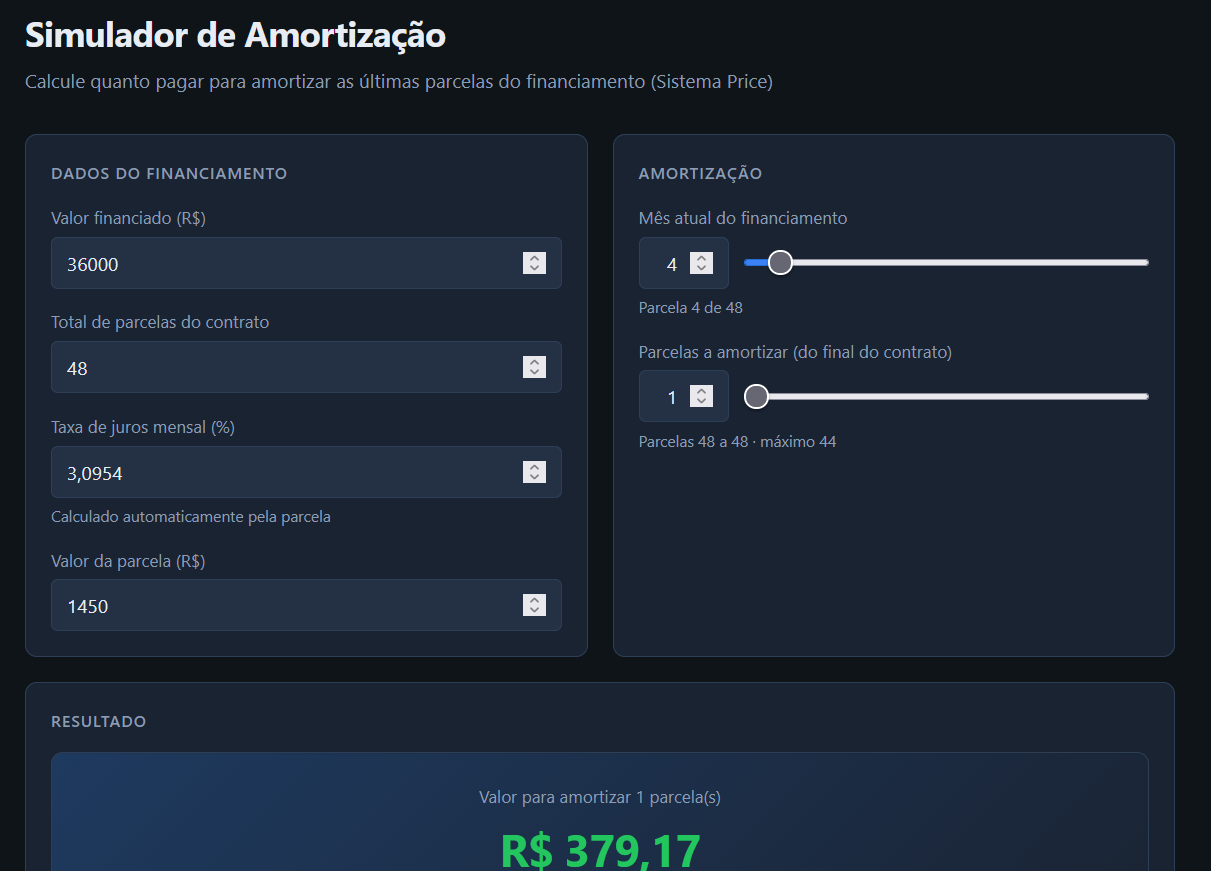
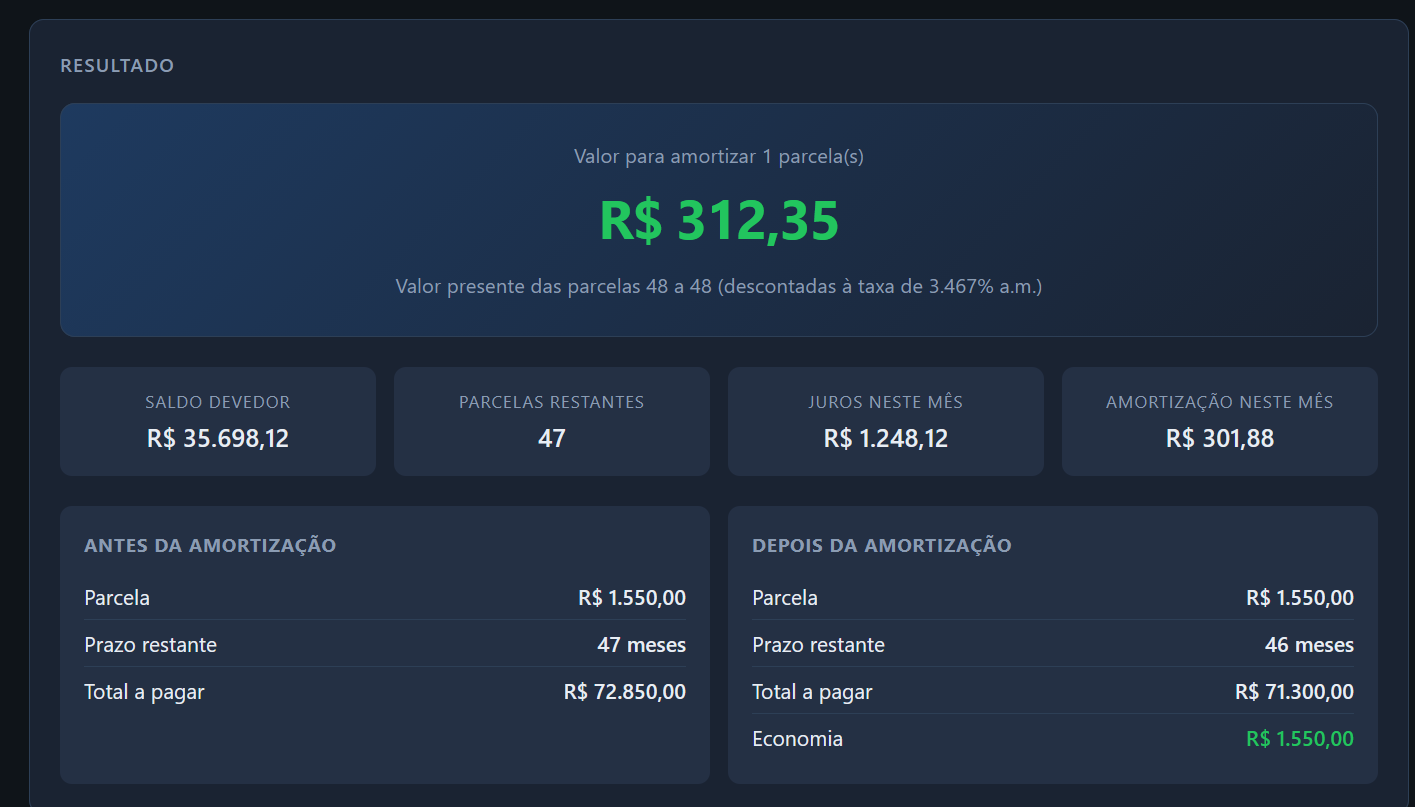
Enhance SEO and metadata in index.html, add robots.txt and sitemap.xml, and update document title and descriptions in App.tsx

diff --git a/src/index.css b/src/index.css
@@ -3,7 +3,7 @@
 @tailwind components;
 @tailwind utilities;
 
-:root{font-family:'Manrope',sans-serif;color:#f1f1ed;background:#111211;font-synthesis:none;text-rendering:optimizeLegibility;font-optical-sizing:auto;font-weight:400;scroll-behavior:smooth}*{box-sizing:border-box}body{margin:0;min-width:320px}a{color:inherit;text-decoration:none}.shell{width:min(1160px,calc(100% - 72px));margin-inline:auto}.accent{color:#cbfa55}.nav{height:88px;display:flex;align-items:center;justify-content:space-between;border-bottom:1px solid #ffffff17}.brand{font-size:23px;font-weight:800;letter-spacing:-2px}.nav-links{display:flex;align-items:center;gap:38px;font-size:12px;color:#aaa}.nav-links a:hover,.socials a:hover{color:#cbfa55}.nav-contact{border:1px solid #ffffff38;border-radius:99px;padding:12px 18px;color:#f1f1ed!important}.nav-contact span{color:#cbfa55;margin-left:8px}.hero{position:relative;min-height:620px;display:grid;grid-template-columns:1.25fr .75fr;align-items:center;gap:30px;padding-top:50px;padding-bottom:90px}.hero-copy{position:relative;z-index:2}.eyebrow{font-family:'DM Mono',monospace;font-size:10px;letter-spacing:1.15px;color:#92958f}.status-dot{display:inline-block;width:7px;height:7px;background:#cbfa55;border-radius:50%;margin-right:9px;box-shadow:0 0 12px #cbfa5580}.hero h1{font-size:clamp(50px,6vw,82px);line-height:1.03;letter-spacing:-6px;font-weight:600;margin:29px 0 28px}.hero h1 span{color:#8e9189}.hero-bottom{display:flex;align-items:center;gap:38px}.hero-bottom p{max-width:365px;color:#a5a69f;line-height:1.8;font-size:14px}.round-link{width:48px;height:48px;border:1px solid #555;border-radius:50%;display:grid;place-items:center;font-size:22px;transition:.2s}.round-link:hover{background:#cbfa55;color:#111;border-color:#cbfa55}.hero-visual{height:400px;position:relative;display:grid;place-items:center;overflow:hidden}.visual-grid{position:absolute;inset:0;background-image:linear-gradient(#ffffff0c 1px,transparent 1px),linear-gradient(90deg,#ffffff0c 1px,transparent 1px);background-size:42px 42px;mask-image:radial-gradient(ellipse,#000 10%,transparent 73%)}.hero-visual img{width:258px;height:316px;object-fit:cover;object-position:center 30%;position:relative;z-index:1;filter:grayscale(1);border-radius:130px 130px 8px 8px;border:1px solid #ffffff36}.orbit{position:absolute;border:1px solid #cbfa5540;border-radius:50%;width:330px;height:330px;transform:rotate(-28deg) scaleY(.55)}.orbit-two{width:390px;height:390px;transform:rotate(37deg) scaleY(.55);border-color:#ffffff24}.visual-label{position:absolute;z-index:2;right:2%;top:23%;font:10px/1.7 'DM Mono',monospace;letter-spacing:1px;color:#c8c9c2}.visual-index{position:absolute;right:8%;bottom:12%;font:10px 'DM Mono',monospace;color:#74776e}.hero-meta{position:absolute;bottom:28px;left:0;right:0;display:flex;justify-content:space-between;border-top:1px solid #ffffff20;padding-top:16px;font:9px 'DM Mono',monospace;letter-spacing:1px;color:#74776e}.work-section{background:#e9eae4;color:#171816;padding:110px 0 120px}.section-heading{display:flex;justify-content:space-between;align-items:end;margin-bottom:52px}.section-heading h2{font-size:clamp(38px,5vw,58px);letter-spacing:-3px;margin:16px 0 0}.section-heading>p{color:#777970;font-size:12px;line-height:1.8;margin:0 0 5px}.project-list{border-top:1px solid #c6c8bf}.project{display:grid;grid-template-columns:1fr 1fr;gap:70px;padding:32px 0;border-bottom:1px solid #c6c8bf}.project-media{height:300px;background:#d9dbd3;position:relative;overflow:hidden;display:grid;place-items:center}.project-media img{width:100%;height:100%;object-fit:cover;transition:transform .5s}.project:hover .project-media img{transform:scale(1.035)}.media-index{position:absolute;top:13px;left:14px;background:#171816;color:#cbfa55;padding:7px 9px;font:9px 'DM Mono',monospace}.project-placeholder{width:100%;height:100%;display:grid;place-items:center;background:radial-gradient(ellipse at center,#bec2b5,#dfe1d9 67%);position:relative}.project-placeholder>span{font-size:108px;font-weight:800;letter-spacing:-14px;color:#252722}.project-placeholder i{position:absolute;right:18px;bottom:12px;font:italic 11px 'DM Mono',monospace;color:#73766d}.project-content{padding:14px 0;display:flex;flex-direction:column;align-items:flex-start}.project-kicker{width:100%;display:flex;justify-content:space-between;font:9px 'DM Mono',monospace;letter-spacing:.7px;color:#81837a}.project h3{font-size:31px;letter-spacing:-1.4px;margin:28px 0 11px}.project-content>p{font-size:13px;line-height:1.8;color:#686b62;max-width:440px;margin:0}.tags{display:flex;flex-wrap:wrap;gap:7px;margin:22px 0 26px}.tags span{border:1px solid #c4c6bc;border-radius:30px;padding:7px 11px;font:9px 'DM Mono',monospace;color:#676960}.project-links{display:flex;gap:21px;margin-top:auto}.project-links a{font-size:11px;font-weight:700;border-bottom:1px solid #aeb0a7;padding-bottom:5px}.project-links a span{color:#7a9e19;margin-left:5px}.about-section{display:grid;grid-template-columns:.7fr 1.3fr;gap:80px;padding-top:120px;padding-bottom:130px}.about-label{display:flex;flex-direction:column;justify-content:space-between;min-height:250px}.about-mark{font-size:60px;letter-spacing:-7px;font-weight:800;color:#262824}.about-copy h2{font-size:clamp(28px,3.4vw,43px);line-height:1.23;letter-spacing:-2px;font-weight:500;margin:0 0 24px;max-width:660px}.about-copy>p{font-size:13px;line-height:1.9;color:#a4a69e;max-width:620px}.education{margin-top:56px;border-top:1px solid #ffffff25;padding-top:20px;display:grid;grid-template-columns:1fr 1fr;gap:20px}.education>.eyebrow{grid-column:1/-1}.education div{display:flex;flex-direction:column;gap:8px}.education strong{font-size:12px;font-weight:600}.education div span{font-size:10px;color:#888b82;line-height:1.6}.footer{background:#1b1d1a;padding:65px 0 27px}.footer-inner{display:flex;justify-content:space-between;align-items:end}.footer-cta{display:block;font-size:clamp(34px,5vw,62px);font-weight:600;letter-spacing:-3px;margin-top:13px}.footer-cta span{font-size:.65em;color:#cbfa55;margin-left:15px}.footer-right{display:flex;flex-direction:column;align-items:flex-end;gap:46px}.socials{display:flex;gap:22px}.socials a{font-size:11px;color:#aaa}.socials span{color:#cbfa55;margin-left:8px}.copyright{font:8px 'DM Mono',monospace;color:#6e7169;letter-spacing:.7px}
+:root{font-family:'Manrope',sans-serif;color:#f1f1ed;background:#111211;font-synthesis:none;text-rendering:optimizeLegibility;font-optical-sizing:auto;font-weight:400;scroll-behavior:smooth}*{box-sizing:border-box}body{margin:0;min-width:320px}a{color:inherit;text-decoration:none}.shell{width:min(1160px,calc(100% - 72px));margin-inline:auto}.accent{color:#cbfa55}.nav{height:88px;display:flex;align-items:center;justify-content:space-between;border-bottom:1px solid #ffffff17}.brand{font-size:23px;font-weight:800;letter-spacing:-2px}.nav-links{display:flex;align-items:center;gap:38px;font-size:12px;color:#aaa}.nav-links a:hover,.socials a:hover{color:#cbfa55}.nav-contact{border:1px solid #ffffff38;border-radius:99px;padding:12px 18px;color:#f1f1ed!important}.nav-contact span{color:#cbfa55;margin-left:8px}.hero{position:relative;min-height:620px;display:grid;grid-template-columns:1.25fr .75fr;align-items:center;gap:30px;padding-top:50px;padding-bottom:90px}.hero-copy{position:relative;z-index:2}.eyebrow{font-family:'DM Mono',monospace;font-size:10px;letter-spacing:1.15px;color:#92958f}.status-dot{display:inline-block;width:7px;height:7px;background:#cbfa55;border-radius:50%;margin-right:9px;box-shadow:0 0 12px #cbfa5580}.hero h1{font-size:clamp(50px,6vw,82px);line-height:1.03;letter-spacing:-6px;font-weight:600;margin:29px 0 28px}.hero h1 span{color:#8e9189}.hero-bottom{display:flex;align-items:center;gap:38px}.hero-bottom p{max-width:365px;color:#a5a69f;line-height:1.8;font-size:14px}.round-link{width:48px;height:48px;border:1px solid #555;border-radius:50%;display:grid;place-items:center;font-size:22px;transition:.2s}.round-link:hover{background:#cbfa55;color:#111;border-color:#cbfa55}.hero-visual{height:400px;position:relative;display:grid;place-items:center;overflow:hidden}.visual-grid{position:absolute;inset:0;background-image:linear-gradient(#ffffff0c 1px,transparent 1px),linear-gradient(90deg,#ffffff0c 1px,transparent 1px);background-size:42px 42px;mask-image:radial-gradient(ellipse,#000 10%,transparent 73%)}.hero-visual img{width:258px;height:316px;object-fit:cover;object-position:center 30%;position:relative;z-index:1;filter:none;border-radius:130px 130px 8px 8px;border:1px solid #ffffff36}.orbit{position:absolute;border:1px solid #cbfa5540;border-radius:50%;width:330px;height:330px;transform:rotate(-28deg) scaleY(.55)}.orbit-two{width:390px;height:390px;transform:rotate(37deg) scaleY(.55);border-color:#ffffff24}.visual-label{position:absolute;z-index:2;right:2%;top:23%;font:10px/1.7 'DM Mono',monospace;letter-spacing:1px;color:#c8c9c2}.visual-index{position:absolute;right:8%;bottom:12%;font:10px 'DM Mono',monospace;color:#74776e}.hero-meta{position:absolute;bottom:28px;left:0;right:0;display:flex;justify-content:space-between;border-top:1px solid #ffffff20;padding-top:16px;font:9px 'DM Mono',monospace;letter-spacing:1px;color:#74776e}.work-section{background:#e9eae4;color:#171816;padding:110px 0 120px}.section-heading{display:flex;justify-content:space-between;align-items:end;margin-bottom:52px}.section-heading h2{font-size:clamp(38px,5vw,58px);letter-spacing:-3px;margin:16px 0 0}.section-heading>p{color:#777970;font-size:12px;line-height:1.8;margin:0 0 5px}.project-list{border-top:1px solid #c6c8bf}.project{display:grid;grid-template-columns:1fr 1fr;gap:70px;padding:32px 0;border-bottom:1px solid #c6c8bf}.project-media{height:300px;background:#d9dbd3;position:relative;overflow:hidden;display:grid;place-items:center}.project-media img{width:100%;height:100%;object-fit:cover;transition:transform .5s}.project:hover .project-media img{transform:scale(1.035)}.media-index{position:absolute;top:13px;left:14px;background:#171816;color:#cbfa55;padding:7px 9px;font:9px 'DM Mono',monospace}.project-placeholder{width:100%;height:100%;display:grid;place-items:center;background:radial-gradient(ellipse at center,#bec2b5,#dfe1d9 67%);position:relative}.project-placeholder>span{font-size:108px;font-weight:800;letter-spacing:-14px;color:#252722}.project-placeholder i{position:absolute;right:18px;bottom:12px;font:italic 11px 'DM Mono',monospace;color:#73766d}.project-content{padding:14px 0;display:flex;flex-direction:column;align-items:flex-start}.project-kicker{width:100%;display:flex;justify-content:space-between;font:9px 'DM Mono',monospace;letter-spacing:.7px;color:#81837a}.project h3{font-size:31px;letter-spacing:-1.4px;margin:28px 0 11px}.project-content>p{font-size:13px;line-height:1.8;color:#686b62;max-width:440px;margin:0}.tags{display:flex;flex-wrap:wrap;gap:7px;margin:22px 0 26px}.tags span{border:1px solid #c4c6bc;border-radius:30px;padding:7px 11px;font:9px 'DM Mono',monospace;color:#676960}.project-links{display:flex;gap:21px;margin-top:auto}.project-links a{font-size:11px;font-weight:700;border-bottom:1px solid #aeb0a7;padding-bottom:5px}.project-links a span{color:#7a9e19;margin-left:5px}.about-section{display:grid;grid-template-columns:.7fr 1.3fr;gap:80px;padding-top:120px;padding-bottom:130px}.about-label{display:flex;flex-direction:column;justify-content:space-between;min-height:250px}.about-mark{font-size:60px;letter-spacing:-7px;font-weight:800;color:#262824}.about-copy h2{font-size:clamp(28px,3.4vw,43px);line-height:1.23;letter-spacing:-2px;font-weight:500;margin:0 0 24px;max-width:660px}.about-copy>p{font-size:13px;line-height:1.9;color:#a4a69e;max-width:620px}.education{margin-top:56px;border-top:1px solid #ffffff25;padding-top:20px;display:grid;grid-template-columns:1fr 1fr;gap:20px}.education>.eyebrow{grid-column:1/-1}.education div{display:flex;flex-direction:column;gap:8px}.education strong{font-size:12px;font-weight:600}.education div span{font-size:10px;color:#888b82;line-height:1.6}.footer{background:#1b1d1a;padding:65px 0 27px}.footer-inner{display:flex;justify-content:space-between;align-items:end}.footer-cta{display:block;font-size:clamp(34px,5vw,62px);font-weight:600;letter-spacing:-3px;margin-top:13px}.footer-cta span{font-size:.65em;color:#cbfa55;margin-left:15px}.footer-right{display:flex;flex-direction:column;align-items:flex-end;gap:46px}.socials{display:flex;gap:22px}.socials a{font-size:11px;color:#aaa}.socials span{color:#cbfa55;margin-left:8px}.copyright{font:8px 'DM Mono',monospace;color:#6e7169;letter-spacing:.7px}
 @media(max-width:800px){.shell{width:min(100% - 42px,600px)}.nav{height:70px}.nav-links{gap:18px}.nav-links>a:first-child,.nav-links>a:nth-child(2){display:none}.hero{grid-template-columns:1fr;gap:0;padding-top:75px;padding-bottom:82px}.hero h1{letter-spacing:-4px;font-size:clamp(48px,10vw,70px)}.hero-visual{height:340px;grid-row:1;margin-bottom:24px}.hero-visual img{width:218px;height:270px}.hero-bottom{justify-content:space-between}.hero-meta{font-size:8px}.work-section{padding:78px 0}.section-heading{align-items:start;gap:20px;flex-direction:column;margin-bottom:32px}.section-heading h2{letter-spacing:-2px}.project{grid-template-columns:1fr;gap:17px;padding:20px 0 27px}.project-media{height:250px}.project-content{padding:8px 0}.project h3{margin-top:18px}.project-links{margin-top:4px}.about-section{grid-template-columns:1fr;gap:25px;padding-top:80px;padding-bottom:85px}.about-label{min-height:auto;gap:30px}.about-mark{display:none}.education{margin-top:38px}.footer-inner{align-items:flex-start;gap:45px;flex-direction:column}.footer-right{align-items:flex-start;gap:25px}.footer-cta{letter-spacing:-2px}}
 @media(max-width:430px){.shell{width:calc(100% - 34px)}.nav-contact{padding:10px 12px;font-size:10px}.hero h1{font-size:45px;letter-spacing:-3.5px}.hero-bottom p{font-size:12px}.hero-visual{height:300px}.visual-label{right:0}.hero-meta span{font-size:7px}.project-media{height:210px}.project h3{font-size:26px}.education{grid-template-columns:1fr}.education>.eyebrow{grid-column:auto}.socials{gap:15px}.copyright{font-size:7px}}
 .skills-section{background:#f1f2ed;color:#171816;padding:100px 0 82px}.skills-heading{align-items:end;margin-bottom:50px}.skills-heading h2{font-size:clamp(46px,5vw,64px);line-height:1.04;letter-spacing:-3.5px;margin:20px 0 0}.skills-heading h2 em{font-family:Georgia,serif;font-weight:400}.skills-heading>p{max-width:360px;color:#6d7069;font-size:14px;line-height:1.8;margin:0 0 5px}.skill-grid{display:grid;grid-template-columns:repeat(3,1fr);border-top:1px solid #d0d3ca;border-bottom:1px solid #d0d3ca}.skill-card{padding:30px 26px 32px 0;min-height:222px}.skill-card+.skill-card{border-left:1px solid #d0d3ca;padding-left:28px}.skill-number{font:11px 'DM Mono',monospace;color:#38504a}.skill-card h3,.skills-bottom h3{font-size:18px;letter-spacing:-.5px;margin:23px 0 21px}.skill-tags{display:flex;flex-wrap:wrap;gap:10px 18px}.skill-tags span{font-size:13px;color:#656962;line-height:1.5}.skills-bottom{display:grid;grid-template-columns:2fr 1fr;gap:60px;padding-top:52px}.education-block,.languages-block{display:flex;flex-direction:column;gap:14px}.skills-bottom h3{margin:10px 0 7px}.skills-bottom p{color:#6d7069;font-size:12px;margin:0;line-height:1.7}.languages-block{padding-left:20px}.skills-section .eyebrow{color:#38504a}.skills-section .section-heading h2 .accent{color:#527b34}

diff --git a/index.html b/index.html
@@ -4,8 +4,37 @@
     <meta charset="UTF-8" />
     <meta name="viewport" content="width=device-width, initial-scale=1.0" />
     <meta name="theme-color" content="#111211" />
-    <meta name="description" content="Francisco Bressa — full stack developer. Digital products, interfaces, and software built with purpose." />
-    <title>Francisco Bressa — Full Stack Developer</title>
+    <meta name="description" content="Francisco Bressa is a Brazilian senior full stack developer specializing in React, TypeScript, frontend engineering, and scalable web applications." />
+    <meta name="author" content="Francisco Bressa" />
+    <meta name="robots" content="index, follow, max-image-preview:large" />
+    <link rel="canonical" href="https://franciscobressa.dev/" />
+    <link rel="icon" type="image/jpeg" href="/me.jpg" />
+    <meta property="og:type" content="website" />
+    <meta property="og:site_name" content="Francisco Bressa" />
+    <meta property="og:url" content="https://franciscobressa.dev/" />
+    <meta property="og:title" content="Francisco Bressa | Senior Full Stack Developer" />
+    <meta property="og:description" content="Brazilian senior full stack developer specializing in React, TypeScript, frontend engineering, and scalable web applications." />
+    <meta property="og:image" content="https://franciscobressa.dev/me.jpg" />
+    <meta property="og:image:alt" content="Francisco Bressa, senior full stack developer" />
+    <meta name="twitter:card" content="summary" />
+    <meta name="twitter:title" content="Francisco Bressa | Senior Full Stack Developer" />
+    <meta name="twitter:description" content="Brazilian senior full stack developer specializing in React, TypeScript, frontend engineering, and scalable web applications." />
+    <meta name="twitter:image" content="https://franciscobressa.dev/me.jpg" />
+    <script type="application/ld+json">
+      {
+        "@context": "https://schema.org",
+        "@type": "Person",
+        "name": "Francisco Bressa",
+        "url": "https://franciscobressa.dev/",
+        "image": "https://franciscobressa.dev/me.jpg",
+        "jobTitle": "Senior Full Stack Developer",
+        "email": "mailto:bressafrancisco@gmail.com",
+        "address": { "@type": "PostalAddress", "addressLocality": "Dourados", "addressRegion": "MS", "addressCountry": "BR" },
+        "sameAs": ["https://github.com/franciscobressa", "https://www.linkedin.com/in/franciscobressa/"],
+        "knowsAbout": ["React", "TypeScript", "JavaScript", "Frontend Engineering", "Full Stack Development", "Web Application Development"]
+      }
+    </script>
+    <title>Francisco Bressa | Senior Full Stack Developer</title>
   </head>
   <body>
     <div id="root"></div>

diff --git a/src/App.tsx b/src/App.tsx
@@ -204,7 +204,23 @@ function App() {
 
   useEffect(() => {
     document.documentElement.lang = language === "en" ? "en" : "pt-BR";
-    document.title = language === "en" ? "Francisco Bressa — Full Stack Developer" : "Francisco Bressa — Desenvolvedor Full Stack";
+    const title = language === "en"
+      ? "Francisco Bressa | Senior Full Stack Developer"
+      : "Francisco Bressa | Desenvolvedor Full Stack Sênior";
+    const description = language === "en"
+      ? "Francisco Bressa is a Brazilian senior full stack developer specializing in React, TypeScript, frontend engineering, and scalable web applications."
+      : "Francisco Bressa é desenvolvedor full stack sênior brasileiro, especialista em React, TypeScript, engenharia frontend e aplicações web escaláveis.";
+    document.title = title;
+    const descriptionTag = document.querySelector<HTMLMetaElement>('meta[name="description"]');
+    if (descriptionTag) descriptionTag.content = description;
+    const ogTitleTag = document.querySelector<HTMLMetaElement>('meta[property="og:title"]');
+    if (ogTitleTag) ogTitleTag.content = title;
+    const ogDescriptionTag = document.querySelector<HTMLMetaElement>('meta[property="og:description"]');
+    if (ogDescriptionTag) ogDescriptionTag.content = description;
+    const twitterTitleTag = document.querySelector<HTMLMetaElement>('meta[name="twitter:title"]');
+    if (twitterTitleTag) twitterTitleTag.content = title;
+    const twitterDescriptionTag = document.querySelector<HTMLMetaElement>('meta[name="twitter:description"]');
+    if (twitterDescriptionTag) twitterDescriptionTag.content = description;
   }, [language]);
 
   return (
